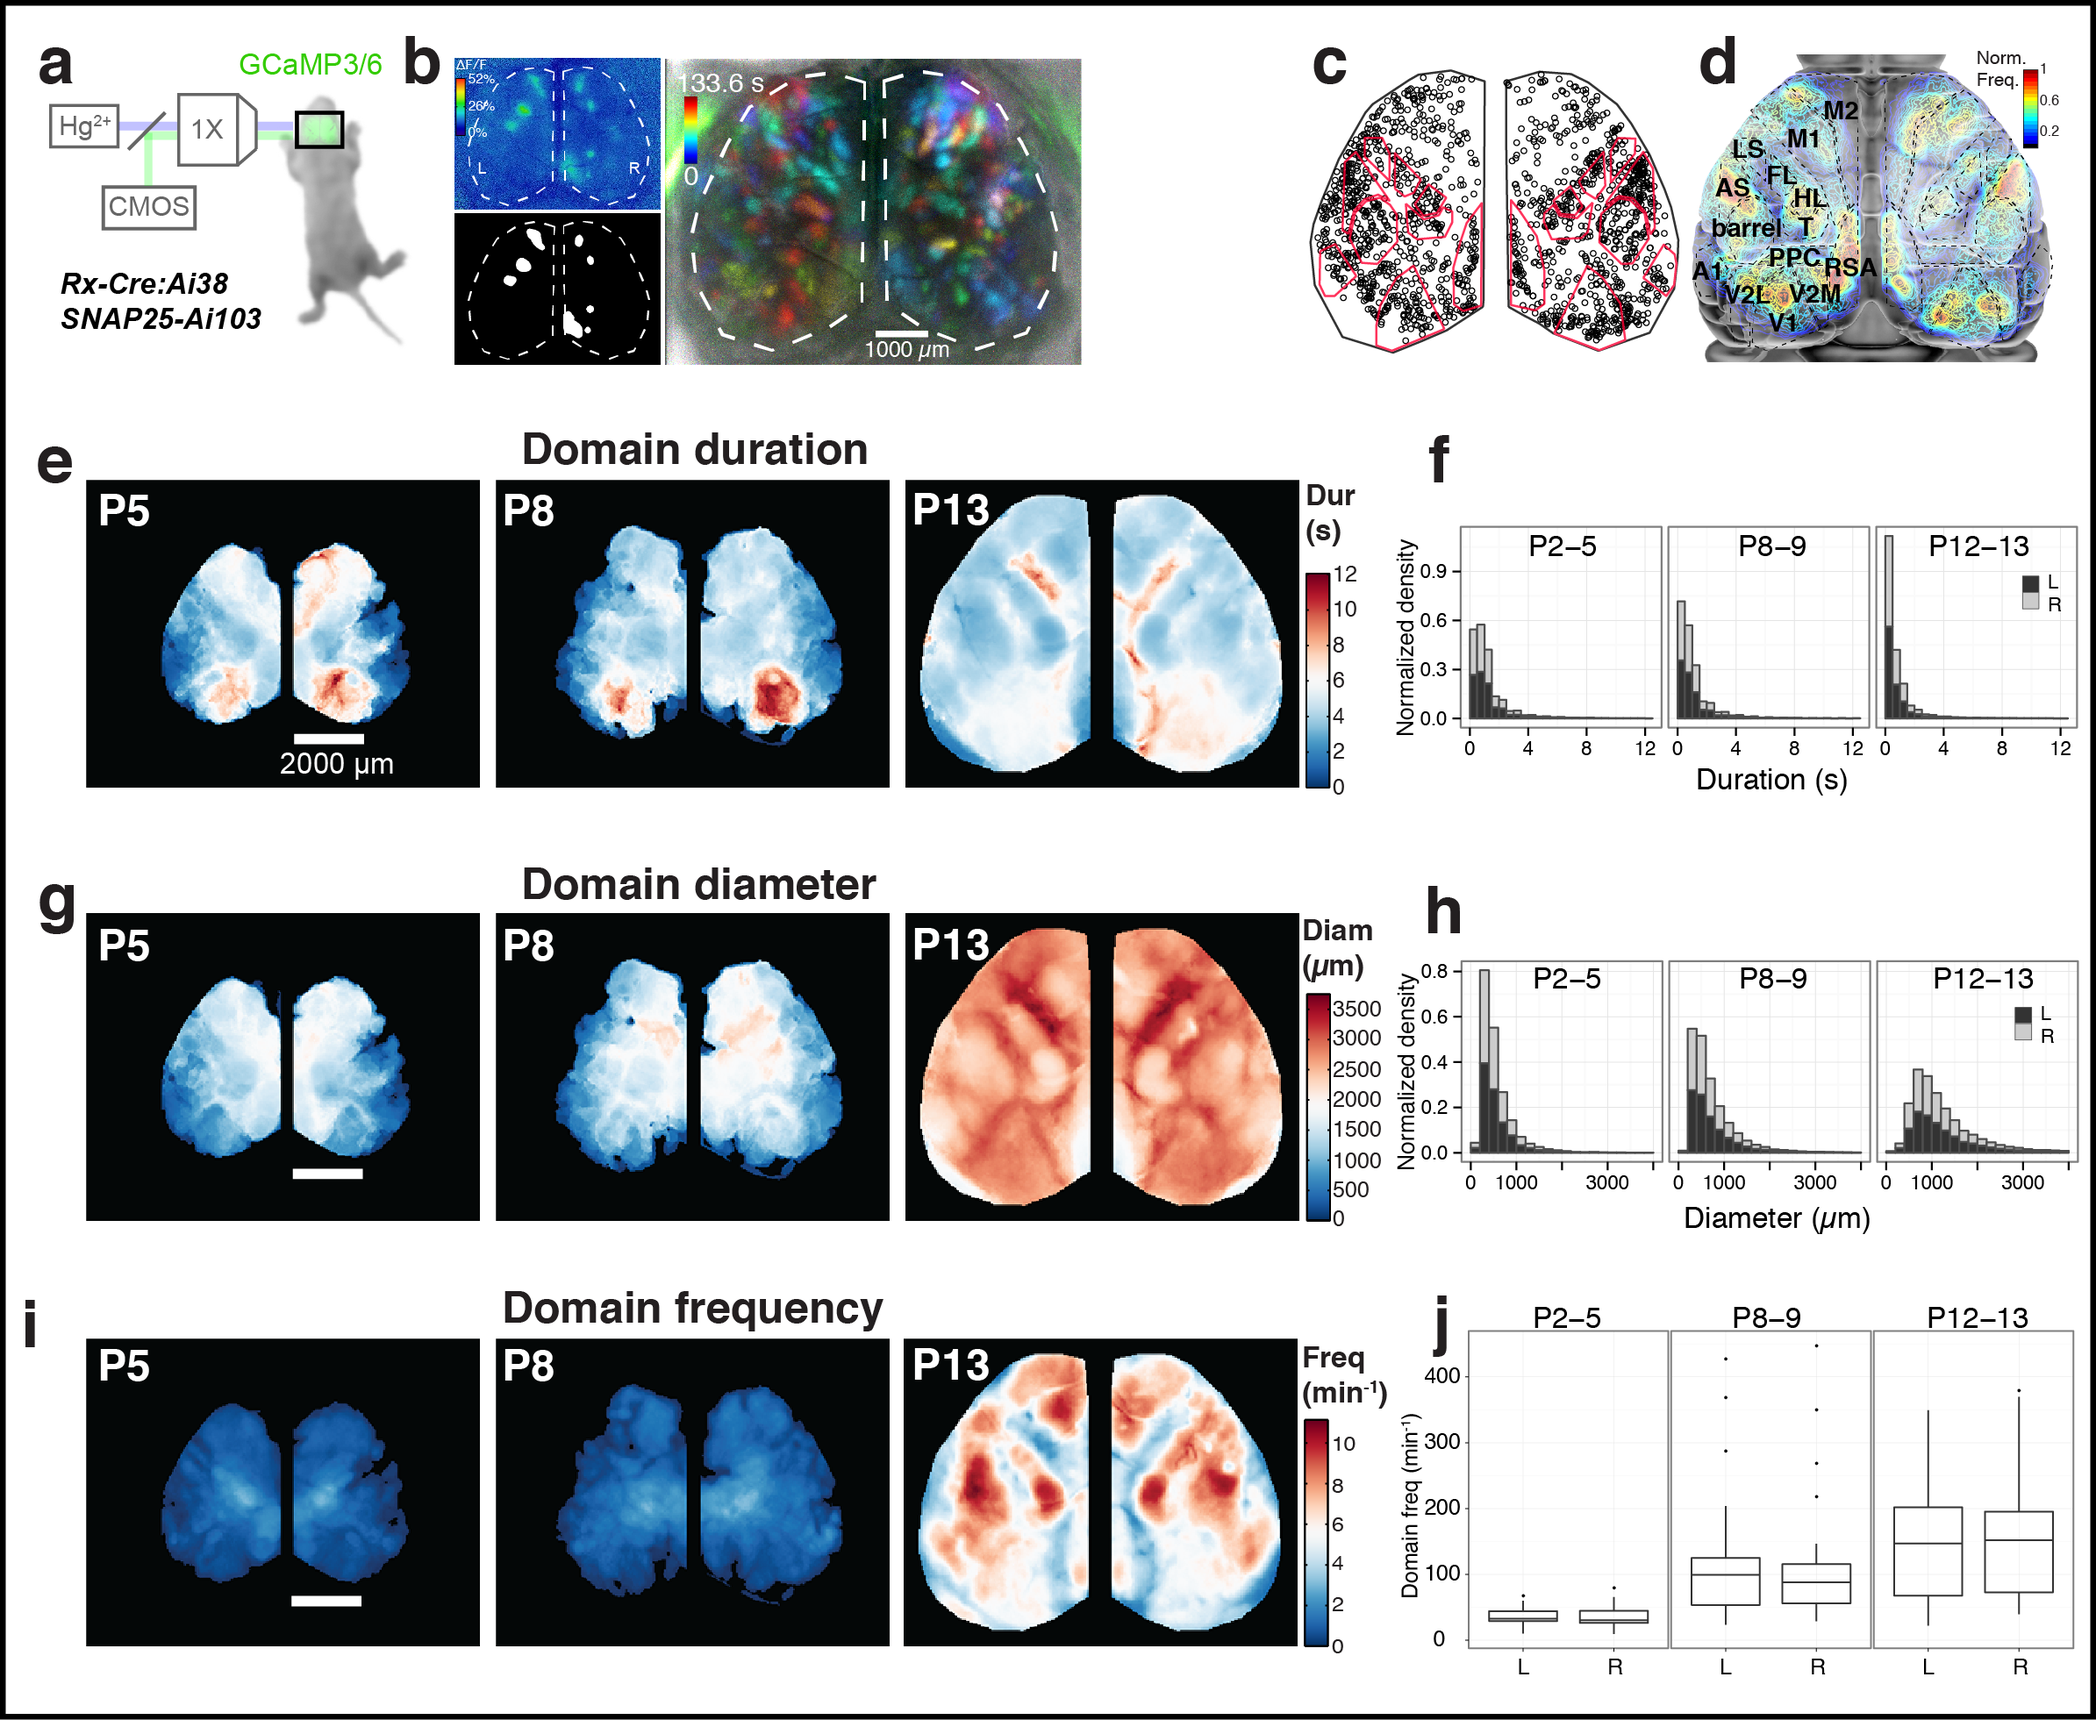
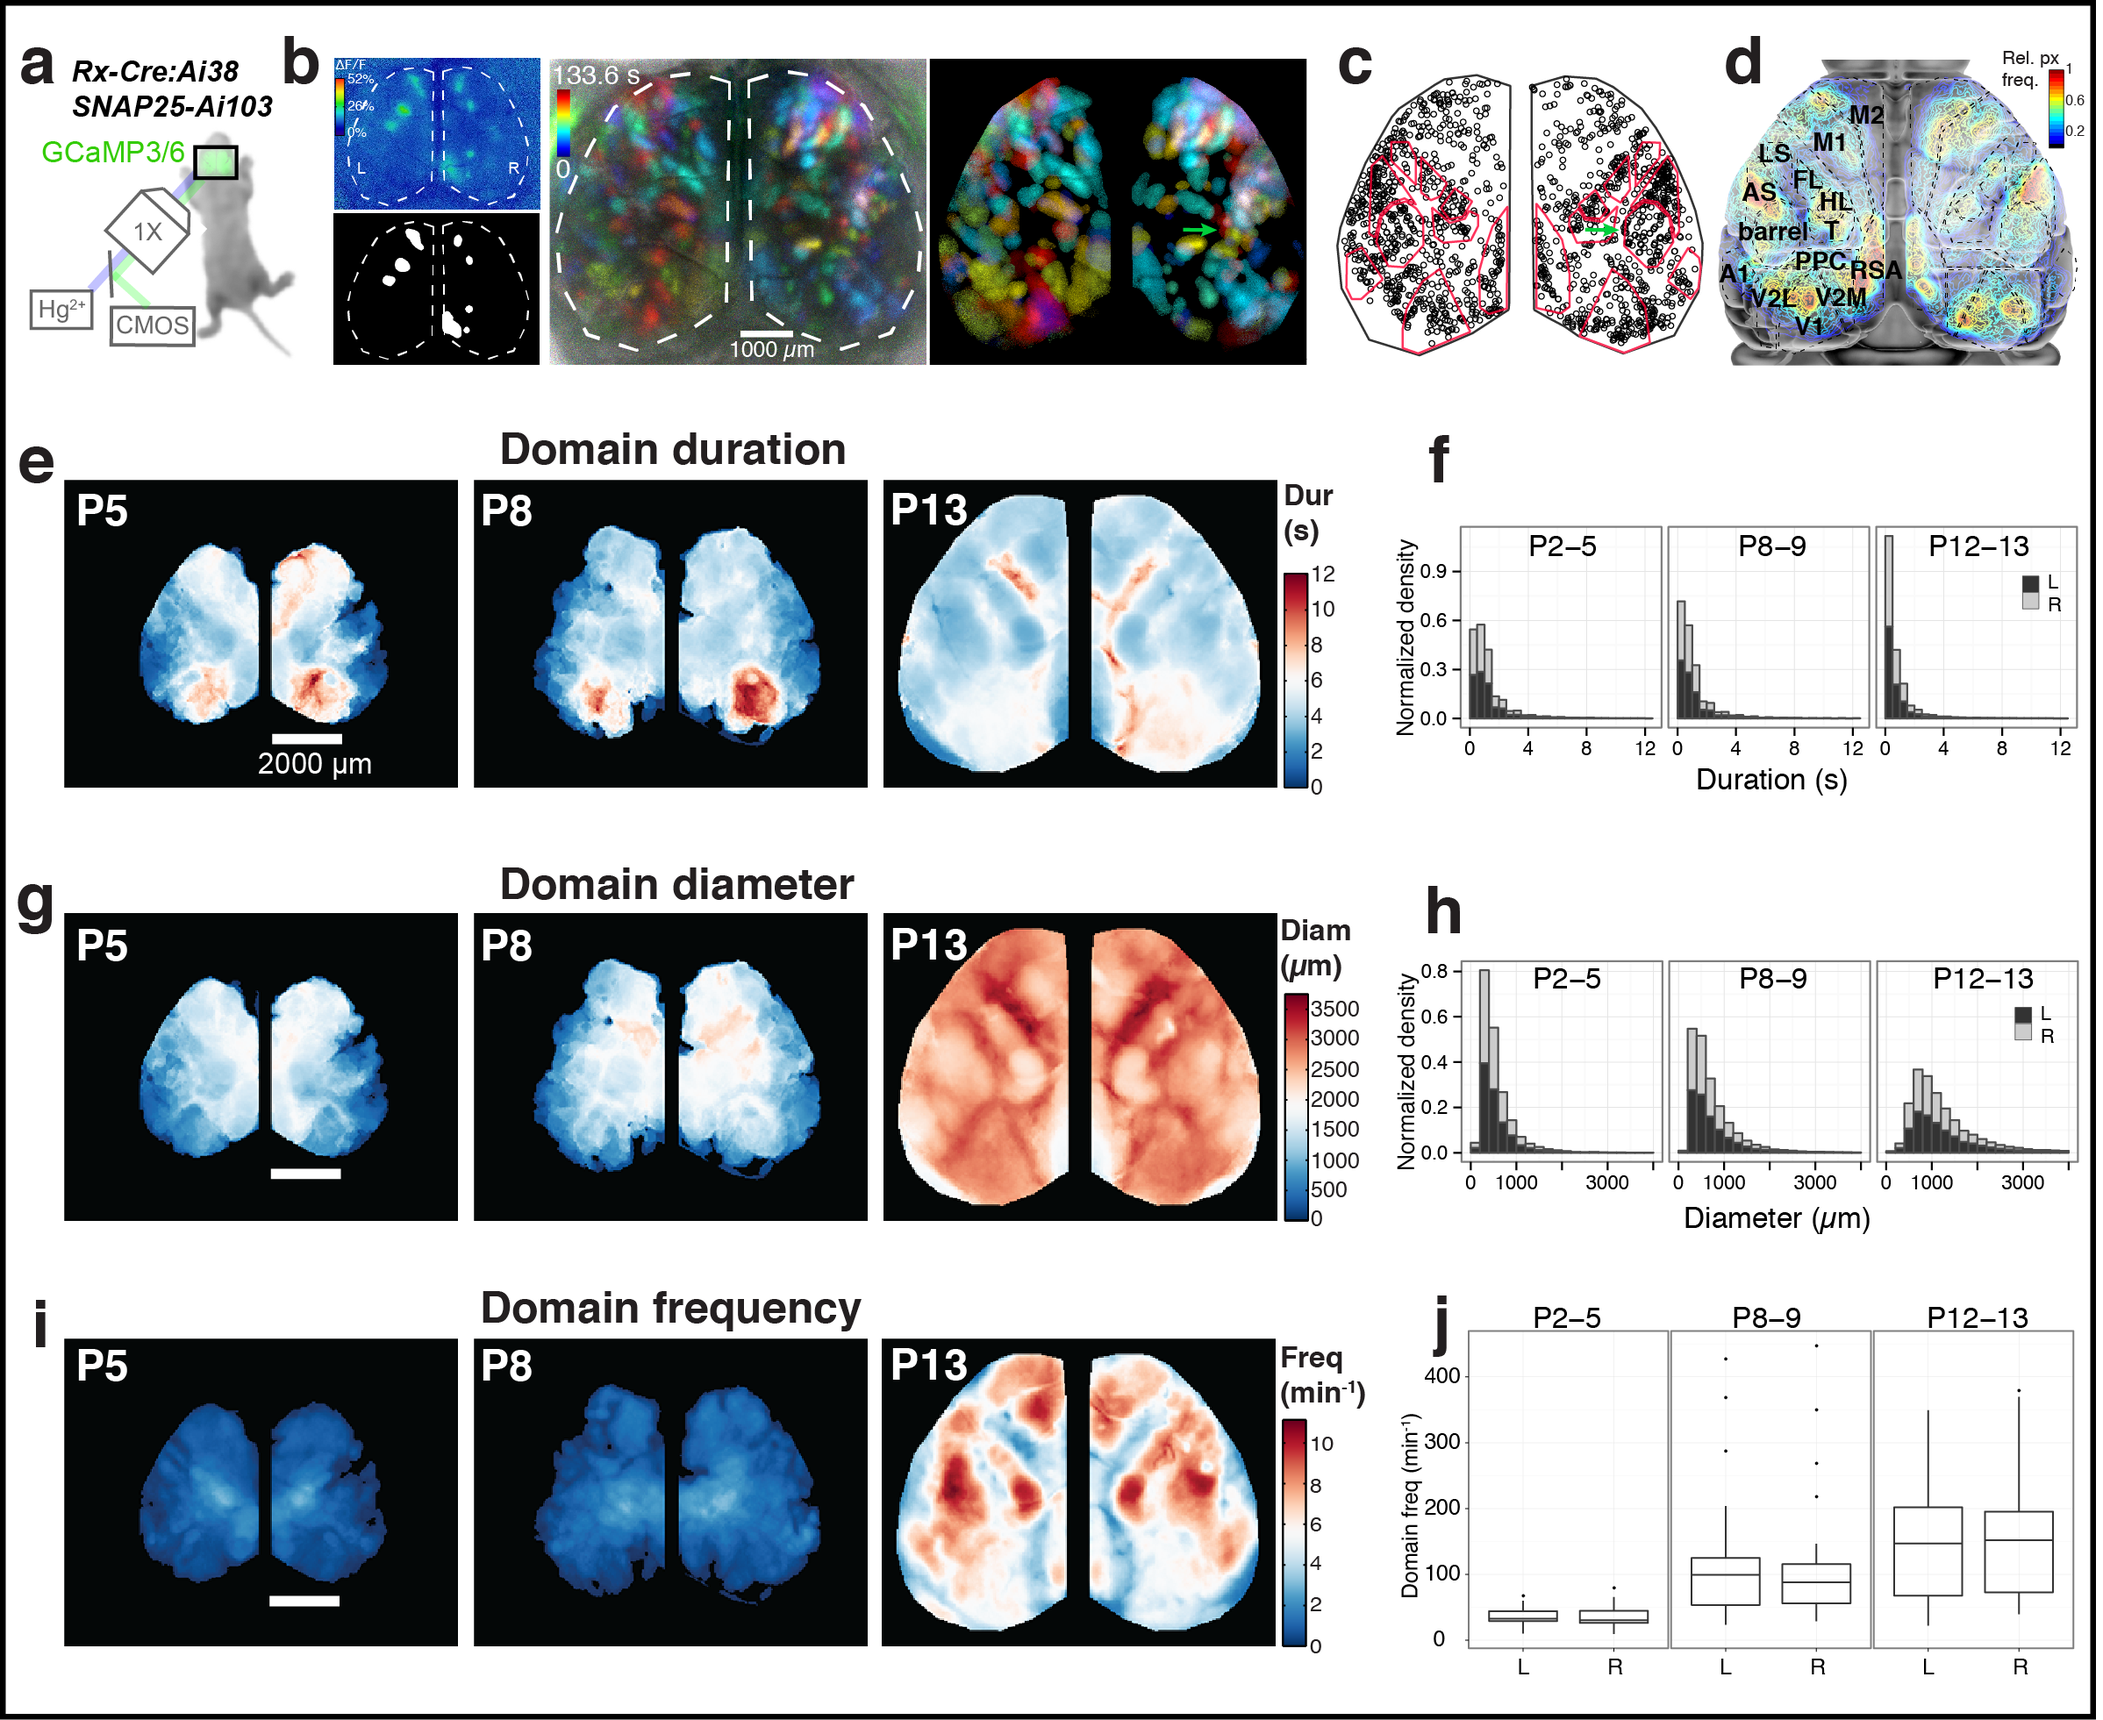
more time projs

diff --git a/wholeBrain_main.md b/wholeBrain_main.md
@@ -30,7 +30,7 @@ Functional mesoscale optical imaging (fMOI) revealed that supracellular cortical
 The neocortex exhibits a characteristic modular organization across the cortical surface such that vertical arrays of cells concerned with specific sensory features are grouped together as columns in a topographic fashion [#Mountcastle:1997]. Most evidence suggests that cortical columns range from 300-600µm diameter, even between species whose brain volumes differ by a factor of 10^3 [#Mountcastle:1997]. Its intriguing that we found the size of cortical domains to be centered on this range at early ages, because this is in agreement with previous work showing that population activity in neonatal rat barrel cortex maps onto ontogenetic modules centered on each barrel column [#Yang:2012a] and barrels are an archetypical model for columnar cortical function in rodent. Indeed, we found a cortical area in primary somatosensory cortex at P2-5 where cortical domain activations group into rows and individual modules that match primary barrel cortex structure (Fig. 1c) (Supplementary Fig.). This indicates that early cortical activity in some cortical areas is matched to the size the functional cortical modules that are thought to be the fundamental procdessing unit of the cerebral cortex. 
 
 
-![ **Figure 1.** Calcium domains throughout neonatal mouse neocortex. **a** Experimental schematic. **b** Single image frame showing calcium domains in both hemispheres at postnatal day 3 (P3) and automatically detected domain masks. **c** Centroid positions for segmented domain masks from a 10 min recording. Points are overlaid on a reference map of primary sensory areas determined by thalamocortical inputs (red outlines). Notice rows of whisker barrels are evident in the structure of domain centroid positions. **d** Functional activity map at P3. Based on pixel activation frequency from all detected domains in a single 10 min recording. Map is overlaid on cortical areal parcellations. Notice localized maxima and minima of functional activity between areas that approximate known anatomical cortical area boundaries and the mirroring of map structure bilaterally. **e** Mean domain duration maps from 3 SNAP25-Ai103 mice. **f** Histograms showing domain durations distributions in the P2-5, P8-9, and P12-13 age groups and by cortical hemisphere (L, R). **g** Mean domain diameter maps from same 3 mice in e. **h** Histograms showing the distributions of domain diameters. **i** Mean domain frequency maps from same 3 mice in e. **j** Boxplot distributions of hemispheric domain frequencies.](figure1.png)
+![ **Figure 1.** Calcium domains throughout neonatal mouse neocortex. **a** Experimental schematic. **b** Left panel: Single image frame showing calcium domains in both hemispheres at postnatal day 3 (P3) and the mask of detected domain signals. Middle and right panels: Time projection map from a raw dF/F movie segment and the corresponding map from automatically detected domain masks. Notice the individual domains of activity in the area of barrel cortex (arrow) **c** Centroid positions for segmented domain masks from a 10 min recording. Points are overlaid on a reference map of primary sensory areas determined by thalamocortical inputs (red outlines). Notice rows of whisker barrels are evident in the structure of domain centroid positions (arrow). **d** Functional activity map at P3. Based on pixel activation frequency from all detected domains in a single 10 min recording. Map is overlaid on cortical areal parcellations. Notice localized maxima and minima of functional activity between areas that approximate known anatomical cortical area boundaries and the mirroring of map structure bilaterally. **e** Mean domain duration maps from 3 SNAP25-Ai103 mice. **f** Histograms showing domain durations distributions in the P2-5, P8-9, and P12-13 age groups and by cortical hemisphere (L, R). **g** Mean domain diameter maps from same 3 mice in e. **h** Histograms showing the distributions of domain diameters. **i** Mean domain frequency maps from same 3 mice in e. **j** Boxplot distributions of hemispheric domain frequencies.](figure1.png)
 
 |        | duration (s) | diameter (µm)    | frequency (hemisphere-min^-1) |
 | ------ | ------------ | ----------------- | ----------------------------- |
@@ -48,7 +48,7 @@ We examined how the spatiotemporal properties of cortical domains vary among dif
 Cortical domain frequency among different regions scaled as a function of net cortical area and this association became stronger during the course of development (Fig. 2a). The most frequently cortical regions at each age group when normalized to the amount of total amount of cortical space was the limb/trunk representations in somatosensory cortex (Fig. 1i, Supplementary Fig.). Generally, the frequency of activity was remarkably uniform across cortical areas at each age of development (Supplementary Fig) indicating a homeostatic mechanism regulating global activity levels. The long tails in the domain duration and diameter distributions at P2-5 and P8-9 (Fig. 1f,h) were dominated by retinal wave driven cortical activity in V1 that lasted on the order of seconds to tens of seconds (Fig. 1e, Fig. 2b,c), but also by long lasting wave-like activations occurring in motor cortex (Fig. 1e, Fig. 2b,c). Indeed the cortical regions with the highest wave motion indices were V1 and M1 at P2-5, with V1 continuing to have the highest index at P8-9 and then dropping to mean motion idx level similar to other cortical regions at P12-13. The diameter of domain activation became larger among cortical regions during the second postnatal week including the S1-limb/body regions where at P13 a small subpopulation of events had mean diameters approaching that of the entire hemisphere and a higher wave motion index (Fig. 2d-f) (x% of all events, ~2/10min) [Supplementary Movie 2](../wholeBrain_blob/ackmanWholeBrainImaging-lo.mov) (Fig. 2d). These global population events synchronized activity across cortical areas and had centers of mass that were concentrated near the middle of each hemisphere in the S1-limb/body area.
 
 
-![ **Figure 2.** Spatiotemporal characteristics of cortical domains. **a** Domain frequency as function of cortical area size. **b** Scatterplots of domain diameter and duration. **c** Time projection color maps of waves in visual cortex and motor cortex at P5. **d** Time projection color maps of interareal activations at P13. **e** Scatterplots of wave motion index as function of domain diameter. **f** Mean wave motion index over development.](figure2.png)
+![ **Figure 2.** Spatiotemporal characteristics of cortical domains. **a** Domain frequency as function of cortical area size. **b** Scatterplots of domain diameter and duration. **c** Time projection maps of waves in visual cortex and motor cortex at P5. **d** Time projection maps of interareal activations at P13. **e** Scatterplots of wave motion index as function of domain diameter. **f** Mean wave motion index over development.](figure2.png)
 
 
 
@@ -58,7 +58,7 @@ Next we assessed mesoscale cortical activity patterns as a function of physiolog
 
 We monitored motor movements simultaneously with cortical activity during our fMOI recordings to gain insight into the relationship between motor behavior output to cerebral cortical dynamics during development. The highest levels of synchronized cortical domain activity occurred during periods of relatively sparse motor behavior whereas the lowest levels of synchronized cortical activity occurred during periods of increased motor movement (Fig. 3c-e). Variation in the strength of correlation between cortical areas and the motor movement signal depended on both brain region (p < 2.2e-16, anova) and age (p = 1.627e-05, anova) (Fig 3c-f). Interestingly, the first age group in which motor cortex exhibited signficant positive correlation with motor movements was at P12-13 (r=0.06±0.02, p-value = 0.001449, t-test) (Fig. 3f).
 
-![ **Figure 3**. Cortical domains are state dependent. **a** Experimental schematic. Red light illumination measured with a photodiode (PD) was used to monitor motor activity. **b** Cortical activity (active fraction) in each hemisphere after onset of gas anesthetic. **c** Cortical activity and coincident motor activity signals. Gray shading indicates active and quiet motor periods determined by the half-rise and decay times from peak in the low pass filtered motor signal. Active pixel fraction traces for motor (M1,M2), somatosensory (HL,FL,T; barrel), and visual (V1,V2) cortex shown at bottom of panel. Red links show synchronized motor movements and brain activity with different cortical regions. **d** Single frame domain masks for times indicated in **c**. **e** Pixel activation frequency maps during quiet and active motor periods. **f** Cross-correlation functions between cortical regions and motor movement signals. Notice the general weak correlation between motor movement and all cortical activity signals (r = , p = ) and the high positive correlation between motor movement and S1-limb/body signals (r = 0.3019, p < 2.2e-16).](figure3.png)
+![ **Figure 3**. Cortical domain activity is state dependent. **a** Experimental schematic. Red light illumination measured with a photodiode (PD) was used to monitor motor movements. **b** Cortical activity (active pixel fraction by hemisphere) and motor movement signal after onset of isoflurane anesthesia at 205 s. **c** Time projection maps (40 s segments) at times indicated in recording from **b**. **d** Cortical activity and coincident motor activity signals. Gray shading indicates active and quiet motor periods determined by the half-rise and decay times from peak in the low pass filtered motor signal. Active pixel fraction traces for motor (M1,M2), somatosensory (HL,FL,T; barrel), and visual (V1,V2) cortex shown at bottom of panel. Red links show synchronized motor movements and brain activity with different cortical regions. **e** Single frame domain masks for times indicated in **d**. **f** Pixel activation frequency maps during quiet and active motor periods. **g** Cross-correlation functions between cortical regions and motor movement signals. Notice the general weak correlation between motor movement and all cortical activity signals (r = , p = ) and the high positive correlation between motor movement and S1-limb/body signals (r = 0.3019, p < 2.2e-16).](figure3.png)
 
 
 ## Cortical activity is mirrored between the hemispheres
@@ -125,6 +125,8 @@ Anesthetized Rx-Cre:GCaMP3 or SNAP25-GCaMP6 mice between postnatal day 2 to 13 (
 <!--Figure 1 metadata
 * neonate_ms_fig.png
 * binary masks: Screen_Shot_2013-03-29_at_12.06.25_PM_crop.png, ..._crop1.png, ..._crop2.png
+* 133.6s timeColorMap projection:  120518_07-fr698-1365-20140710-222230.tif
+* Segmentation mask of 133.6s timeColorMap projection:  120518_07-fr698-1365-20140715-230320-cadj.png
 * parcellation map
 	* update 2013-10-03 11:07:29: 
 		* 120518_07_2013-09-11-225029_d2rImageCoords20130930-144657.ai
@@ -134,17 +136,25 @@ Anesthetized Rx-Cre:GCaMP3 or SNAP25-GCaMP6 mice between postnatal day 2 to 13 (
 				* 120518_07_connComponents_BkgndSubtr-60px_noWatershed-20130327-151022_d2r_20130930-124950_eps.png
     * [x] add a domain centroid size/duration map similar to: ![](../figures/Screen_Shot_2013-04-03_at_8.42.49_AM.png)
         * ![](../figures/Screen_Shot_2013-04-03_at_10.04.36_AM.png)
-* domainFreq map: 
+* domainFreq map: 20140613-084032_ActivityMapFigRawProj-domainFreqRdBu.eps, P5mapDomainFreq-crop.tif, P8mapDomainFreq-crop.tif, P13mapDomainFreq-crop.tif
     * domainFreq boxplot: 
-* domainDur map: 20140613-082954_ActivityMapFigRawProj-domainDurRdBu.eps
+* domainDur map: 20140613-082954_ActivityMapFigRawProj-domainDurRdBu.eps, P5mapDur-crop.tif, P8mapDur-crop.tif, P13mapDur-crop.tif
     * domainDur cdf: 
+* domainDiam map:  20140613-083156_ActivityMapFigRawProj-domainDiamRdBu.eps, P5mapDiam-crop.tif, P8mapDiam-crop.tif, P13mapDiam-crop.tif
 -->
 
-<!-- Figure 2 metadata 
+<!-- Figure 2 metadata
+* Scatterplot mean freq:  140704-143614-freq_min-scatter.pdf
+* Scatterplot domain duration-diameter timeline:  140702-141423-durDiam-scatter-img.pdf
+* P5 wave time projection: 140328_10-fr2016-2153-20140710-092344.tif
+* wave motion index scatter:  140702-152109-rhoDiam-scatter.png
+* Wave motion index timeline:  140702-162029-waveMotionIdx-jitterTimeline.pdf 
 -->
 
 <!--Figure 3 metadata 
-* Isoflurane traces:  
+* P8 isoflurane active px fraction and motor movement signal traces:  140331_11_20140425-171130_d2ractvFraction20140425-171354-20140425-171355.ai
+
+* P8 isoflurane time color projection sequence:  140331_11-fr775-975-20140710-163609.tif, 140331_11-fr1800-2000-20140710-162448.tif, 140331_11-fr2800-3000-20140710-162206.tif
 
 * Cortical and photodiode signals and moving averages color coded at diff lags:  120518_07_2013-09-11-225029_d2r_motorSignalFiltFilt_fig.eps
 
